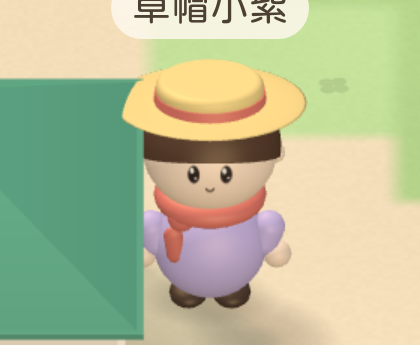
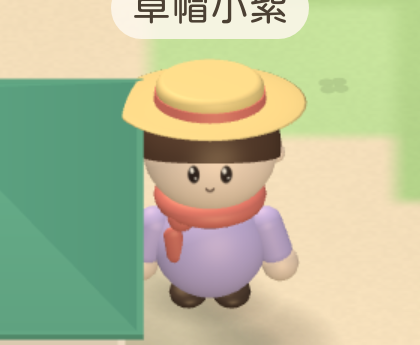
Hang the arms from the shoulder instead of stubbing them out
The arm reference sheet gives it as a sleeve, an arm and a hand: a tube
hanging straight down from under the scarf with a ball at its end, the
shoulder sunk into the body rather than meeting it at a seam. What was there
was a short capsule angled outward with a separate hand floating off it.

The splay is 17 degrees from vertical, which is what lets the shoulder stay
inside the body ball while the hand still swings clear of the hip; the
sleeve's own geometry follows from that angle rather than being placed by
hand at both ends.

The satchel used to hang exactly where the arm now does, so it moves to the
front of the hip. The 2D sprite gets the same arm.

diff --git a/packages/client/src/three/avatar3d.ts b/packages/client/src/three/avatar3d.ts
@@ -39,6 +39,18 @@ const BODY_Y = 0.30;
 const BODY_RADIUS = 0.25;
 const COLLAR_Y = BODY_Y + BODY_RADIUS * 1.02;
 /**
+ * The arm: a sleeve capsule hanging down the side of the body with a bare
+ * hand at its end, splayed out just enough to clear the hip. `ARM_TILT` is
+ * measured from straight down, so the shoulder tucks in as the hand swings
+ * out, which is what keeps the joint inside the body ball.
+ */
+const SLEEVE_RADIUS = 0.075;
+const SLEEVE_HALF = 0.145;
+const ARM_Y = 0.34;
+const ARM_X = 0.265;
+const ARM_TILT = 0.30;
+const HAND_RADIUS = 0.082;
+/**
  * Avatars are modelled about a tile tall and drawn larger: chunky enough to
  * read at phone zoom, the way the 2D sprites stand taller than their tile.
  */
@@ -224,10 +236,13 @@ function accessoryParts(accessory: Accessory, shirt: number): THREE.BufferGeomet
     }
     case 'satchel':
       return [
-        painted(new THREE.BoxGeometry(0.15, 0.13, 0.06).translate(0.215, 0.26, 0.06), PALETTE.bench, {
-          from: 0.8, to: 1, bottom: 0.19, top: 0.33,
+        // In front of the hip: the arm hangs where this used to sit.
+        painted(new THREE.BoxGeometry(0.14, 0.13, 0.06).rotateY(-0.3)
+          .translate(0.185, 0.235, 0.15), PALETTE.bench, {
+          from: 0.8, to: 1, bottom: 0.17, top: 0.3,
         }),
-        painted(new THREE.TorusGeometry(0.25, 0.014, 4, 24).rotateY(Math.PI / 2).rotateX(0.55).translate(0.02, 0.4, 0), PALETTE.benchShade),
+        painted(new THREE.TorusGeometry(0.25, 0.014, 4, 24).rotateY(Math.PI / 2).rotateX(0.75)
+          .translate(0.02, 0.4, 0.04), PALETTE.benchShade),
       ];
     case 'bowtie': {
       // A contrasting tie, so it does not vanish into the shirt.
@@ -255,11 +270,19 @@ export function buildAvatarGeometry(parts: AvatarParts): THREE.BufferGeometry {
     // Body: one round ball, wider than it is deep.
     painted(new THREE.SphereGeometry(BODY_RADIUS, 26, 18).scale(1, 1.02, 0.88)
       .translate(0, BODY_Y, 0), shirt, bodyShade),
-    // Short sleeves ending in bare hands.
-    ...[-1, 1].map((side) => painted(new THREE.CapsuleGeometry(0.072, 0.07, 5, 12)
-      .rotateZ(side * -0.32).translate(side * 0.247, 0.355, 0.01), shirt, bodyShade)),
-    ...[-1, 1].map((side) => painted(new THREE.SphereGeometry(0.062, 14, 10)
-      .translate(side * 0.295, 0.254, 0.02), skin, bodyShade)),
+    // Sleeves, hanging down the sides with the shoulder sunk into the body.
+    ...[-1, 1].map((side) => painted(
+      new THREE.CapsuleGeometry(SLEEVE_RADIUS, SLEEVE_HALF * 2 - SLEEVE_RADIUS * 2, 6, 14)
+        .rotateZ(side * ARM_TILT).translate(side * ARM_X, ARM_Y, 0.01), shirt, bodyShade,
+    )),
+    // Hands: a ball a touch wider than the cuff, at the end of each sleeve.
+    ...[-1, 1].map((side) => painted(
+      new THREE.SphereGeometry(HAND_RADIUS, 16, 12).translate(
+        side * (ARM_X + SLEEVE_HALF * Math.sin(ARM_TILT)),
+        ARM_Y - SLEEVE_HALF * Math.cos(ARM_TILT),
+        0.01,
+      ), skin, bodyShade,
+    )),
     // Head, resting straight on the body: there is no neck.
     painted(
       new THREE.SphereGeometry(HEAD_RADIUS, 26, 18).scale(1, HEAD_SQUASH, 1).translate(0, HEAD_Y, 0),

diff --git a/packages/client/src/gfx/avatar.ts b/packages/client/src/gfx/avatar.ts
@@ -256,19 +256,11 @@ function drawFrame(
   g.fillRoundedRect(cx - 7.5, FEET_Y - 4.5, 6, 5.5, 2.5);
   g.fillRoundedRect(cx + 1.5, FEET_Y - 4.5, 6, 5.5, 2.5);
 
-  // Arms, behind the torso so the sleeves tuck in neatly.
+  // Arms: a sleeve hanging from the collar with a bare hand at its end,
+  // drawn behind the torso so the shoulder sinks into the body.
   for (const side of [-1, 1] as const) {
-    outlinedRoundedRect(
-      g,
-      cx + side * 11.5 - 2.5,
-      BODY_TOP + 2,
-      5,
-      7,
-      2.5,
-      shirt,
-    );
-    // Hand.
-    outlinedCircle(g, cx + side * 11.5, BODY_TOP + 10, 2.8, skin);
+    outlinedRoundedRect(g, cx + side * 10 - 3, BODY_TOP + 2.5, 6, 10, 3, shirt);
+    outlinedCircle(g, cx + side * 11.5, BODY_TOP + 12, 3.1, skin);
   }
 
   // Torso: one round ball, the head sitting straight on it.

diff --git a/docs/visual/character-redesign/README.md b/docs/visual/character-redesign/README.md
@@ -22,6 +22,15 @@ geometry the game uses, under the same town lighting.
 
 ![Turnaround](turnaround.png)
 
+## Arms
+
+A second brief covered the arm and shoulder specifically: the arm is a sleeve
+hanging straight down from under the scarf — not a stub pointing outward —
+with a bare hand ball at its end, and a shoulder that sinks into the body
+ball rather than meeting it at a seam. Close-up of the same seven views:
+
+![Arms](arms.png)
+
 ## In the game
 
 | Before (avatar preview) | After (avatar preview) |
@@ -42,6 +51,10 @@ outlined style, sharing the hair, scarf, straw, boot and eye colours with the
 
 - Proportions: head radius 0.30 at y 0.80 over a 0.25 body ball whose top is
   the collar, so there is no neck; boots sit just under the hem.
+- Arms hang: a sleeve capsule from just under the scarf down past the hip,
+  splayed 17 degrees so the shoulder tucks inside the body ball as the hand
+  swings clear of it, with a hand ball a touch wider than the cuff. The
+  satchel moved to the front of the hip, where the arm no longer covers it.
 - Hair is a bowl cut: a crown cap plus a shell whose hem sweeps from just
   above the eyes at the front, past the ears, down to the nape. The shell is
   built by hand — a ring of sphere sections gives a staircase, because a
